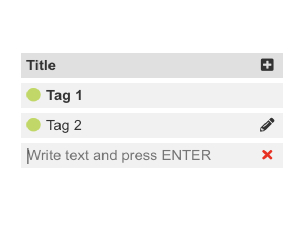
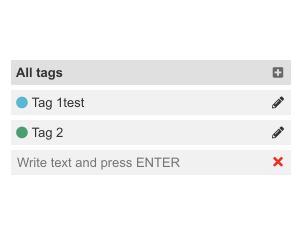
Updated j-ListMenuEditable

diff --git a/j-ListMenuEditable/component.js b/j-ListMenuEditable/component.js
@@ -1,24 +1,42 @@
-COMPONENT('listmenueditable', 'iconremove:times;defaulticon:pencil-alt;addicon:plus-square;placeholder:Write text and press ENTER', function(self, config) {
+COMPONENT('listmenueditable', 'iconremove:times;defaulticon:pencil-alt;addicon:plus-square;placeholder:Write text and press ENTER;class:selected', function(self, config) {
 
 	var cls = 'ui-listmenueditable';
 	var cls2 = '.' + cls;
+	var selected;
 	var container;
-	var deftemplate = '';
-	var template = '<div class="' + cls + '-item {{ if selected }}selected{{ fi }} {{ classname }}" data-index="{{ index }}" {{ if value }} data-value="{{ value }}" {{ fi }}>{{ if icon }}<span class="' + cls + '-icon"><i class="fa fa-{{ icon }}"></i></span>{{ fi }}<div class="' + cls + '-text"><span>{{ name | encode | ui_listmenueditable_helper }}</span></div></div>';
+	var last;
+	var template = '<div class="' + cls + '-item {{ if selected }}selected{{ fi }} {{ classname }}" data-index="{{ index }}" {{ if value }} data-value="{{ value }}" {{ fi }}>{{ if editable }}<span class="' + cls + '-icon"><i class="fa fa-{{ icon }}"></i></span>{{ fi }}<div class="' + cls + '-text"><span>{{ name | encode | ui_listmenueditable_helper }}</span></div></div>';
 	var templateinput = '<div class="' + cls + '-item" {{ if index != null }}data-index="{{ index }}"{{ fi }}><span class="' + cls + '-deleteicon"><i class="fa fa-' + config.iconremove + '"></i></span><div class="' + cls + '-text"><input placeholder="' + config.placeholder + '" {{ if index != null }}value="{{ text }}"{{ fi }} type="text" /></div></div>';
+	var layout;
 
 	Thelpers.ui_listmenueditable_helper = function(val) {
-		var t = this;
-		return t.template ? t.template.indexOf('{{') === -1 ? t.template : Tangular.render(t.template, this) : val;
+		return layout ? layout.indexOf('{{') === -1 ? layout : Tangular.render(layout, this) : val;
 	};
 
 	self.template = Tangular.compile(template);
 	self.templateinput = Tangular.compile(templateinput);
 
 	self.make = function() {
+
+		var scr = self.find('> script');
+		layout = scr.length ? scr.html() : null;
+
 		self.aclass(cls);
-		config.title && self.html('<div class="' + cls + '-header"><span class="' + cls + '-icon"><i class="fas fa-' + config.addicon + '"></i></span><div class="' + cls + '-text"><span>Title</span></div></div>');
+		config.title && self.html('<div class="{0}-header"><span class="{0}-icon"><i class="fas fa-{1}"></i></span><div class="{0}-text"><span>{2}</span></div></div>'.format(cls, config.addicon, config.title));
 		self.append('<div class="' + cls + '-container"></div>');
+
+		self.event('click', cls2 + '-item' + ' ' + cls2 + '-text', function() {
+			if ($(this).find('input').length)
+				return;
+
+			var parent = $(this).closest(cls2 + '-item');
+			var index = parent.attrd('index');
+			var items = self.get();
+			container.find('.' + config.class).rclass(config.class);
+			parent.aclass(config.class);
+			selected = index;
+			config.click && EXEC(config.click, parent, items[index], index);
+		});
 
 		self.event('click', cls2 + '-header ' + cls2 + '-icon', function() {
 			config.addclick && EXEC(config.addclick);
@@ -40,8 +58,6 @@ COMPONENT('listmenueditable', 'iconremove:times;defaulticon:pencil-alt;addicon:p
 					obj[key] = value;
 					if (config.defaulticon.length)
 						obj.icon = config.defaulticon;
-					if (deftemplate.length)
-						obj.template = deftemplate;
 					cur.push(obj);
 				} else {
 					cur[index][key] = value;
@@ -58,10 +74,11 @@ COMPONENT('listmenueditable', 'iconremove:times;defaulticon:pencil-alt;addicon:p
 		self.event('focusout', 'input', function() {
 			var parent = $(this).closest(cls2 + '-item');
 			var cur = self.get();
-			var index = parent.attrd('index');
-			if (index == null)
-				parent.remove();
-			else {
+			var index = parseInt(parent.attrd('index'));
+			if (index === last) {
+				cur.splice(index, 1);
+				self.set(cur);
+			} else {
 				var itemtemplate = self.itemtemplate();
 				parent.replaceWith(itemtemplate(cur[index]));
 			}
@@ -71,22 +88,26 @@ COMPONENT('listmenueditable', 'iconremove:times;defaulticon:pencil-alt;addicon:p
 	self.edit = function(index) {
 		if (index == null)
 			return;
+
 		var el = container.find(cls2 + '-item[data-index="' + index + '"]');
 		var text = self.get()[index];
 		var key = config.key || 'name';
-		el.replaceWith(self.templateinput({ text: text[key], index: index }));
+		el.replaceWith(self.templateinput({ text: text[key] || '', index: index }));
 
 		setTimeout2(self.id + 'focus', function() {
 			container.find('input').focus();
+			var input = container.find('input');
+			var value = input.val();
+			input.val('').val(value);
 		}, 80);
 	};
 
-	self.add = function(templa) {
-		deftemplate = templa || '';
-		container.append(self.templateinput(EMPTYOBJECT));
-		setTimeout2(self.id + 'focus', function() {
-			container.find('input').focus();
-		}, 80);
+	self.add = function(data) {
+		if (data == null)
+			data = {};
+		self.push(data);
+		var index = last = self.get().length - 1;
+		self.edit(index);
 	};
 
 	self.itemtemplate = function() {
@@ -101,9 +122,12 @@ COMPONENT('listmenueditable', 'iconremove:times;defaulticon:pencil-alt;addicon:p
 		var builder = [];
 		var itemtemplate = self.itemtemplate();
 
-		for (var i = 0, length = value.length; i < length; i++) {
+		for (var i = 0; i < value.length; i++) {
 			var item = value[i];
 			item.index = i;
+			item.icon = config.defaulticon;
+			if (selected != null && selected == i)
+				item.selected = true;
 			builder.push(itemtemplate(item));
 		}
 

diff --git a/j-ListMenuEditable/component.css b/j-ListMenuEditable/component.css
@@ -1,11 +1,14 @@
 .ui-listmenueditable .ui-listmenueditable-header { height: 25px; line-height: 25px; margin-bottom: 5px; font-weight: bold; background-color: #e0e0e0; padding: 0 5px; }
-.ui-listmenueditable .ui-listmenueditable-item { height: 25px; line-height: 25px; margin-bottom: 5px; background-color: #f1f1f1; padding: 0 5px; }
-.ui-listmenueditable .ui-listmenueditable-item.selected { font-weight: bold; }
-.ui-listmenueditable .ui-listmenueditable-icon { width: 20px; float: right; text-align: center; cursor: pointer; }
-.ui-listmenueditable .ui-listmenueditable-deleteicon { width: 20px; float: right; text-align: center; cursor: pointer; color: red; }
+.ui-listmenueditable .ui-listmenueditable-item { height: 25px; line-height: 25px; margin-bottom: 5px; background-color: #f1f1f1; padding: 0 5px; cursor: pointer; }
+.ui-listmenueditable .ui-listmenueditable-icon { width: 16px; float: right; text-align: center; cursor: pointer; }
+.ui-listmenueditable .ui-listmenueditable-icon:hover { opacity: 0.7; }
+.ui-listmenueditable .ui-listmenueditable-icon i { font-size: 12px; }
+.ui-listmenueditable .ui-listmenueditable-deleteicon { width: 16px; float: right; text-align: center; cursor: pointer; color: red; }
+.ui-listmenueditable .ui-listmenueditable-deleteicon:hover { opacity: 0.7; }
 .ui-listmenueditable .ui-listmenueditable-text { margin-right: 25px; }
-.ui-listmenueditable .ui-listmenueditable-text span { width: 100%; white-space: nowrap; overflow: hidden !important; text-overflow: ellipsis; display: inline-block; }
-.ui-listmenueditable .ui-listmenueditable-text input { width: 100%; height: 25px; border: none; background-color: #f1f1f1; }
+.ui-listmenueditable .ui-listmenueditable-text span { width: 100%; white-space: nowrap; overflow: hidden !important; text-overflow: ellipsis; display: inline-block; font-size: 13px; }
+.ui-listmenueditable .ui-listmenueditable-text span i { font-size: 12px; }
+.ui-listmenueditable .ui-listmenueditable-text input { width: 100%; height: 25px; border: none; background-color: #f1f1f1; font-size: 13px; }
 .ui-listmenueditable .ui-listmenueditable-text input:focus { outline: none; }
 
 .ui-dark .ui-listmenueditable .ui-listmenueditable-header { background-color: #2d2d2d; }

diff --git a/j-ListMenuEditable/example.html b/j-ListMenuEditable/example.html
@@ -1,15 +1,28 @@
 <div style="width: 400px;">
-	<div data-jc="listmenueditable__tags__title:All tags;editclick:clicked;addclick:add"></div>
+	<div data---="listmenueditable__tags__title:All tags;editclick:edit;addclick:add;click:click">
+		<script type="text/html">
+			{{ if mycolor }}
+				<i class="fas fa-circle" style="color: {{ mycolor }}"></i>
+			{{ fi }}
+			{{ name }}
+		</script>
+	</div>
 </div>
 
 <script>
-	var tags = [{ name: 'Tag 1', id: 1, template: '<i class="fas fa-circle mr5" style="color:#bada55;"></i>{{ name }}', selected: true, classname: 'customclass' }, { name: 'Tag 2', template: '<i class="fas fa-circle mr5" style="color:#ba55da;"></i>{{ name }}', id: 2, icon: 'pencil-alt' }];
+	var tags = [{ name: 'Tag 1', mycolor: '#00B9D7', editable: true, classname: 'customclass', mycustomdata: 'ola' }, { name: 'Tag 2', mycolor: '#00A06E', editable: true, mycustomdata: 'ola2' }];
 
-	function clicked(el, index) {
-		FIND('listmenueditable').edit(index, '<i class="fas fa-circle mr5" style="color:#bada55;"></i>{{ name }}');
+	function click(el, item, index) {
+		alert('clicked index ' + index);
+		console.log(el);
+		console.log(item);
+	}
+
+	function edit(el, index) {
+		SETTER('listmenueditable', 'edit', index);
 	}
 
 	function add() {
-		FIND('listmenueditable').add('<i class="fas fa-circle mr5" style="color:#da55ba;"></i>{{ name }}');
+		SETTER('listmenueditable', 'add', { mycolor: '#8e44ad', editable: true });
 	}
 </script>

diff --git a/j-ListMenuEditable/readme.md b/j-ListMenuEditable/readme.md
@@ -6,30 +6,35 @@ Component for editable list menu
 
 __Configuration__:
 
-- `iconremove` {String} optional, change remove icon. It's fontawesome icon without `fa-` part (default: `times`)
-- `addicon` {String} optional, will change `add` icon (default: `plus-square`)
-- `defaulticon` {String} optional, change "edit" icon. You can disable this icon with value `0`. ONLY FOR NEW ITEMS (default: `pencil-alt`)
+- `iconremove` {String} optional, change `remove` button icon. It's fontawesome icon without `fa-` part (default: `times`)
+- `defaulticon` {String} optional, change `edit` button icon (default: `pencil-alt`)
+- `addicon` {String} optional, will change `add` button icon (default: `plus-square`)
 - `placeholder` {String} optional, a placeholder for input (default: `Write text and press ENTER`)
-- `title` {String} optional, will add title on top of list menu
+- `class` {String} CSS class for selected item (default: `selected`)
+- `title` {String} optional, will add title on top of list menu (important if you want use `addicon` and `addclick`)
 - `key` {String} optional, a default `key` for `text` value (default: `name`)
-- `addclick` {String} optional, a path to function() executes when user click on `add` icon
-- `editclick` {String} optional, a path to function(element, index)
+- `click` {String} optional, action after click on item in menu. Path to function(element, index)
+- `addclick` {String} optional, action after click on `add `button. Path to function() executes when user click on `add` icon
+- `editclick` {String} optional, action after click on `edit` button. Path to function(element, index)
 
 __Methods__:
 
-- `component.add()`
-- `component.edit(element, index)`
+- `component.add(object)` - This function will push object into path (can be null)
+- `component.edit(index)` - Function will enable edit on element
 
 __Good to know__:
 
-Path __must be__ array of objects.
-
-__Formatting via Tangular__:
-
-```javascript
-var opt = {};
-opt.items = [];
-opt.push({ name: 'Total.js', template: '<b>{{ name }}</b>' });
+Path __must be__ array of objects. After click on item in menu
+Supports dynamic evaluation of the content of `<script type="text/html">`. The example below contains a script with HTML and the component evaluates the content when the component is creating (only once).
+```
+<div data---="listmenueditable__tags">
+	<script type="text/html">
+		{{ if mycolor }}
+			<i class="fas fa-circle" style="color: {{ mycolor }}"></i>
+		{{ fi }}
+		{{ name }}
+	</script>
+</div>
 ```
 
 __Adding of custom class__:
@@ -40,20 +45,12 @@ opt.items = [];
 opt.push({ name: 'Total.js', classname: 'your_class_name' });
 ```
 
-__Setting selected__:
+__Toggle editable__:
 
 ```javascript
 var opt = {};
 opt.items = [];
-opt.push({ name: 'Total.js', selected: true });
-```
-
-__Adding edit icon__:
-
-```javascript
-var opt = {};
-opt.items = [];
-opt.push({ name: 'Total.js', icon: 'pencil-alt' });
+opt.push({ name: 'Total.js', editable: true });
 ```
 
 ### Author
